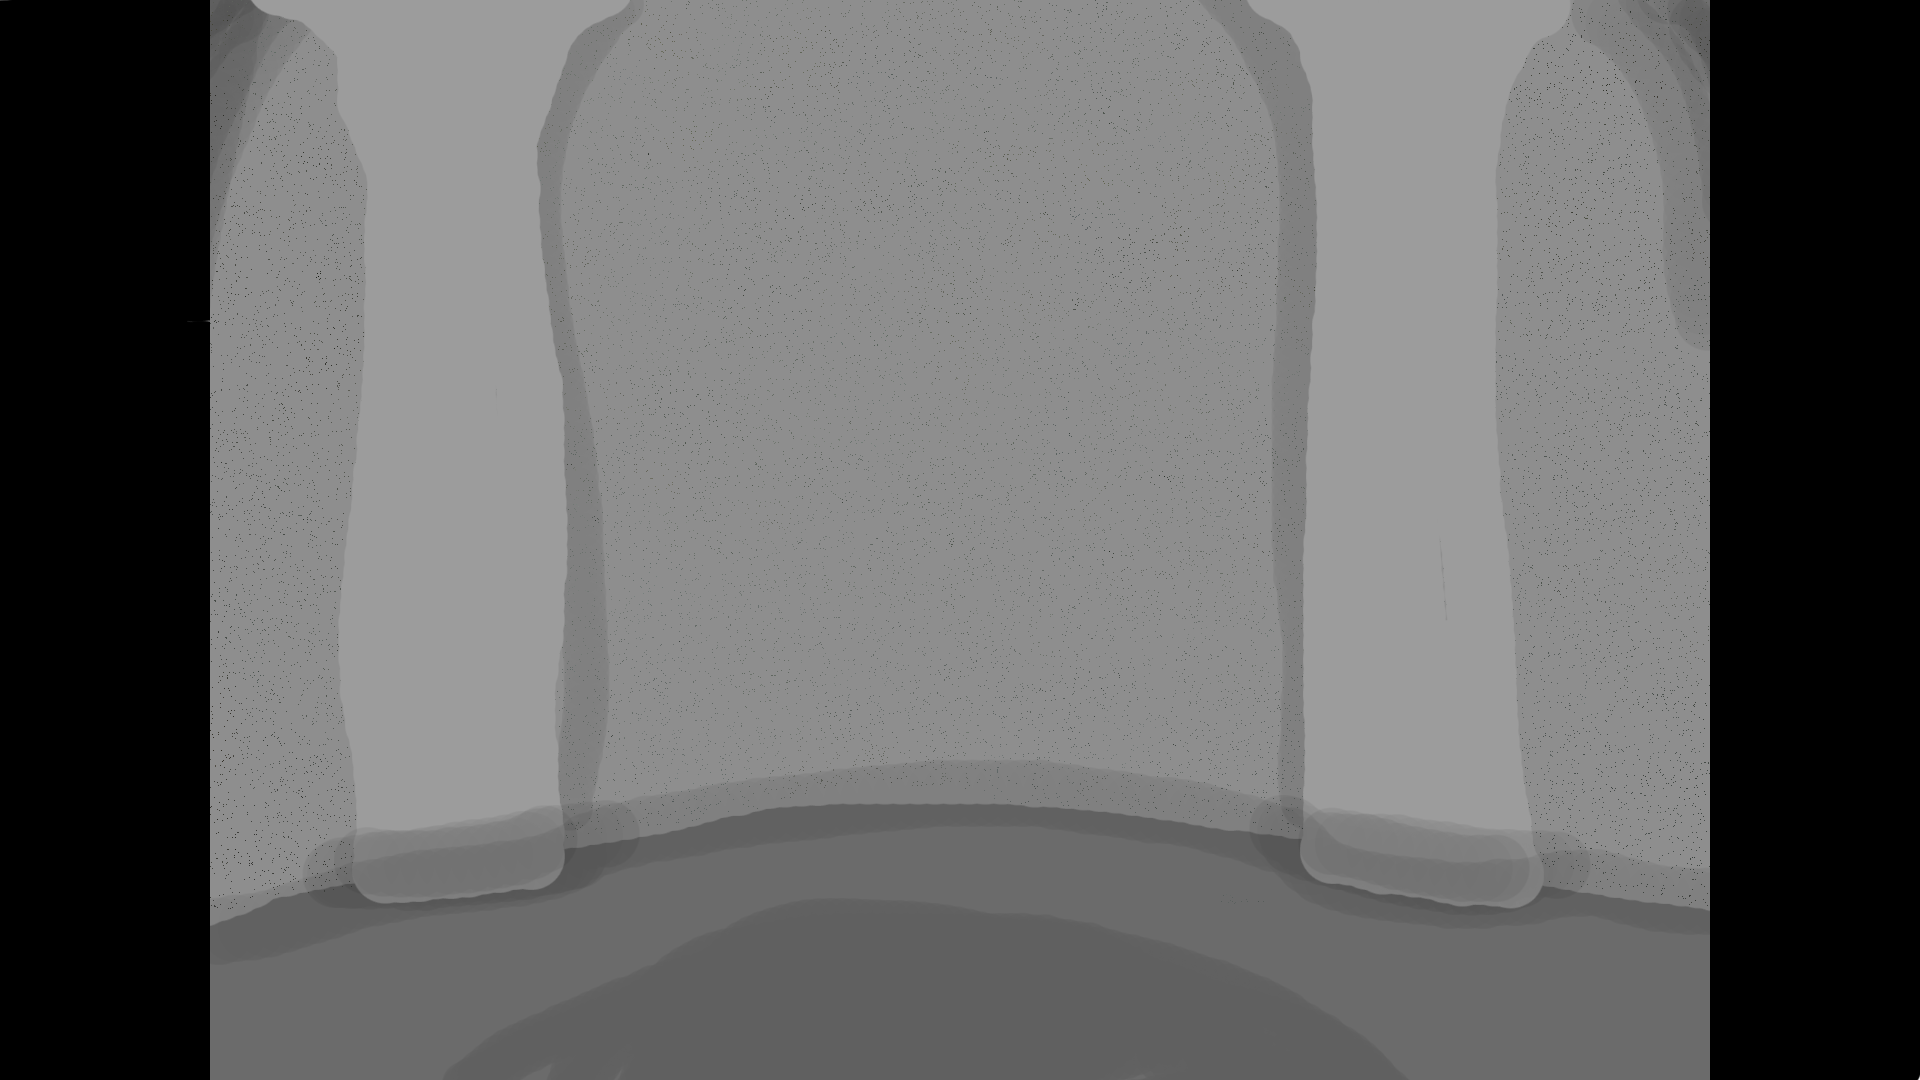
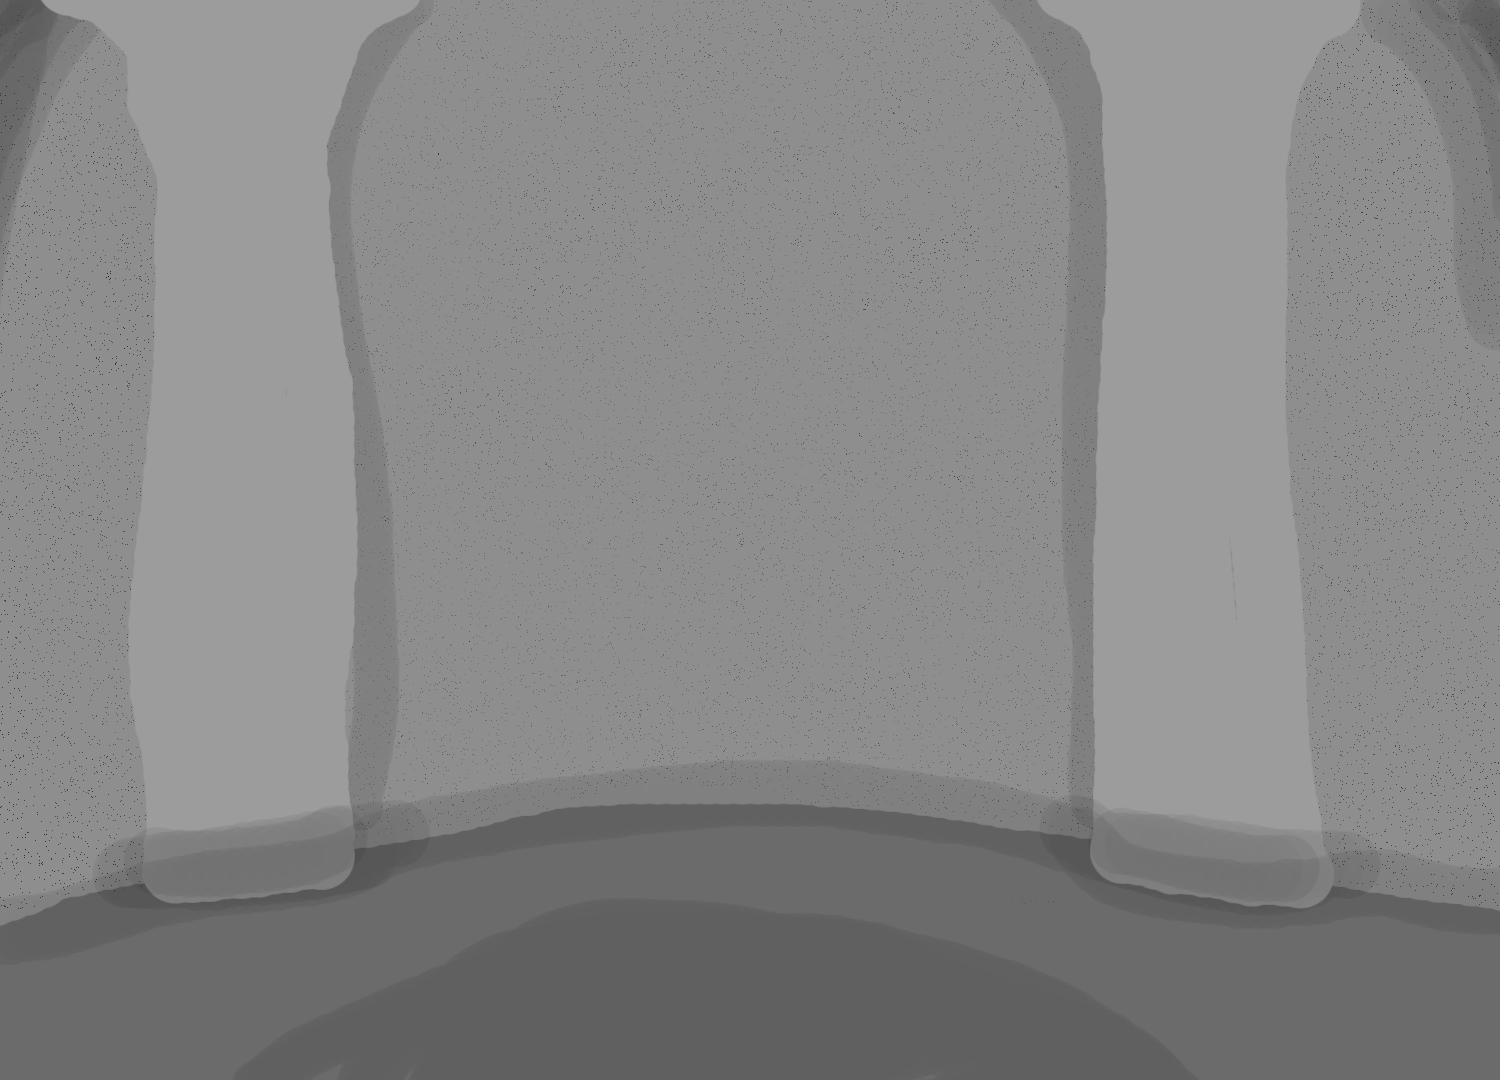
refactor: I've tried making more optimisations, making it more user-friendly in mobile designs. I failed. I don't know how to optimise stuff for mobile. I only know what a 1080p is, not a p1080

diff --git a/script.js b/script.js
@@ -8,18 +8,15 @@ const locations = [
 var currentLocation = "daveLoc"
 
 // dave Texts on start
-// const initText = [
-//     {"t": "didnt ask lmao!", "to": 500},
-//     {"t": "come in my crib tho", "to": 1000},
-//     {"t": "theres not much here", "to": 1000, bg: true},
-//     {"t": "but if you go downstairs", "to": 1000},
-//     {"t": "theres a buletin board with some info", "to": 1000},
-//     {"t": "idk why its there, but its pretty cool ngl", "to": 3000},
-//     {"t": "wait you think i have more to say?", "to": 2800},
-//     {"t": "you can click on me to talk if you want", "to": 1, click: true}
-// ]
 const initText = [
-    {"t": "dev!", "to": 1, click: true, bg: true}
+    {"t": "didnt ask lmao!", "to": 500},
+    {"t": "come in my crib tho", "to": 1000},
+    {"t": "theres not much here", "to": 1000, bg: true},
+    {"t": "but if you go downstairs", "to": 1000},
+    {"t": "theres a buletin board with some info", "to": 1000},
+    {"t": "idk why its there, but its pretty cool ngl", "to": 3000},
+    {"t": "wait you think i have more to say?", "to": 2800},
+    {"t": "you can click on me to talk if you want", "to": 1, click: true}
 ]
 
 // allow clicking dave
@@ -70,16 +67,19 @@ function daveTextAnimation(t, speed) {
 // handles changing locations when buttons are pressed
 function changeLocation(to) {
     if (!locations.some(e => e.name === to)) return
+    var loc = locations.find(e => e.name === to)
+
+    document.getElementById(currentLocation).style.visibility = "hidden"
+
+    document.body.style.backgroundImage = `url('${loc.bg}')`
 
     currentLocation = to
-    document.body.style.backgroundImage = `url('${locations.find(e => e.name === to).bg}')`
+    document.getElementById(currentLocation).style.visibility = "visible"
 }
 
 // On Load
 // the... uhh.. 🤔 (i forgor) uhm.. thing!!
 window.addEventListener('DOMContentLoaded', () => {
-    daveLocation.style.backgroundColor = "transparent" // TEMP!
-
     var text = "Ask me anything..."
     var textSpeed = 1 // 120
 
@@ -113,7 +113,10 @@ daveTextBox.addEventListener("keydown", function(event) {
             setTimeout(() => {
                 daveTextAnimation(e.t, textSpeed)
 
-                if (e.bg) { daveLocation.style.backgroundColor = "transparent" }
+                if (e.bg) { 
+                    daveLocation.style.backgroundColor = "transparent"
+                    document.getElementById("btnDownstairs").style.removeProperty("visibility")
+                }
                 if (e.click) { 
                     allowClickingDave = true 
                     daveImage.style.cursor = "pointer"
@@ -139,17 +142,17 @@ daveImage.addEventListener("click", function() {
             var text = values[randomIndex]
 
             if (daveImage.classList.contains("hasHat") || daveImage.classList.contains("hasOnlyHat")) {
-                daveImage.src = "/assets/dave.png"
+                daveImage.src = "/assets/dave/dave.png"
                 daveImage.classList.remove("hasHat", "hasOnlyHat")
             }
 
             // custom tags handling custom situations
             if (text.startsWith("<hat>")) {
-                daveImage.src = "/assets/davenohat.png"
+                daveImage.src = "/assets/dave/davenohat.png"
                 text = text.replace("<hat>", "").trim()
                 daveImage.classList.add("hasHat")
             } else if (text.startsWith("<onlyhat>")) {
-                daveImage.src = "/assets/daveonlyhat.png"
+                daveImage.src = "/assets/dave/daveonlyhat.png"
                 text = text.replace("<onlyhat>", "").trim()
                 daveImage.classList.add("hasOnlyHat")
             }
@@ -163,5 +166,13 @@ daveImage.addEventListener("click", function() {
     }
 })
 
+// On Page Resize
+// handle page resizing, for mobile support & random screen handling
+
+
+
 // On Button to Downstairs Click
 btnDownstairs.addEventListener("click", () => changeLocation("basementLoc"))
+btnUpstairs.addEventListener("click", () => changeLocation("daveLoc"))
+btnToCrystal.addEventListener("click", () => changeLocation("crystalLoc"))
+btnFromCrystal.addEventListener("click", () => changeLocation("basementLoc"))

diff --git a/index.html b/index.html
@@ -5,11 +5,17 @@
     <meta name="viewport" content="width=device-width, initial-scale=1.0">
     <title>dave the magical wizard</title>
 
-    <!-- CSS + Prefetch Images -->
-    <link rel="preload" href="/assets/locations/davenohat.png" as="image">
+    <!-- CSS + Preload Images -->
+    <link rel="preload" href="/assets/dave/dave.png" as="image">
+    <link rel="preload" href="/assets/dave/davenohat.png" as="image">
+    <link rel="preload" href="/assets/dave/daveonlyhat.png" as="image">
+
     <link rel="preload" href="/assets/locations/1_main.png" as="image">
     <link rel="preload" href="/assets/locations/2_basement.png" as="image">
     <link rel="preload" href="/assets/locations/3_crystal.png" as="image">
+
+    <link rel="preload" href="/assets/other/up.png" as="image">
+    <link rel="preload" href="/assets/other/down.png" as="image">
     <link rel="stylesheet" href="/style.css">
 
     <!-- Roboto Mono Font -->
@@ -18,22 +24,24 @@
     <link href="https://fonts.googleapis.com/css2?family=Roboto+Mono:ital,wght@0,100..700;1,100..700&display=swap" rel="stylesheet">
 </head>
 <body>
-    <!-- Question asking + main area -->
-    <div class="absolute unselectable" id="daveLoc">
+    <!-- Main Area -->
+    <div class="absolute unselectable location" id="daveLoc">
         <p id="daveText"></p>
         <img id="daveCharacter" src="/assets/dave/dave.png" alt="Dave the Magical Wizard">
         <input id="daveTextBox" type="text" required placeholder="Type your question here...">
 
-        <div class="absolute" id="btnDownstairs"></div>
+        <div class="absolute" id="btnDownstairs" style="visibility: hidden;"></div>
     </div>
 
     <!-- Basement area (yes, i was lazy with the chains) -->
-    <div class="absolute" id="basementLoc">
+    <div class="absolute unselectable location" id="basementLoc" style="visibility: hidden;">
+        <div class="absolute" id="btnUpstairs"></div>
 
+        <!-- <div class="absolute" id="btnCrystal"></div> -->
     </div>
 
-    <!-- Basement -->
-    <div class="absolute" id="crystalLoc">
+    <!-- Crystal area (if you saw this via html, then you got spoiled) -->
+    <div class="absolute unselectable location" id="crystalLoc" style="visibility: hidden;">
 
     </div>
 

diff --git a/style.css b/style.css
@@ -4,13 +4,14 @@
 }
 
 body {
+    height: 100vh;
+    overflow: hidden;
+
     background-image: url("/assets/locations/1_main.png");
-    background-color: black;
-    background-size: cover;
+    background-size: contain;
     background-position: center;
     background-repeat: no-repeat;
-    width: 100vw;
-    height: 100vh;
+    background-color: black;
 }
 .relative { position: relative; }
 .absolute { position: absolute; }
@@ -20,9 +21,13 @@ body {
     -moz-user-select: none;
     -ms-user-select: none;
 }
+.hidden { 
+    visibility: hidden;
+    opacity: 0;
+}
 
 /* Locations (Layers) */
-#daveLoc {
+.location {
     width: 100vw;
     height: 100vh;
 
@@ -32,10 +37,12 @@ body {
     justify-content: center;
 
     color: black;
-    background-color: black;
+}
 
+#daveLoc {
     opacity: 1;
     transition: opacity 2s;
+    background-color: black;
 }
 
 /* Assets */
@@ -43,15 +50,25 @@ body {
     text-shadow: 2px 2px black;
     font-family: "Roboto Mono", monospace;
     font-size: 2rem;
-    padding-bottom: 1rem;
-    height: 60px;
 
+    text-align: center;
+
+    height: auto;
+    max-width: 90vw;
+    min-height: 60px;
+
+    padding-bottom: 1rem;
     color: white;
 }
 
 #daveCharacter {
     filter: drop-shadow(1px 1px 15px rgba(151, 145, 145, 0.5));
     filter: drop-shadow(1px 1px 15px rgba(0, 0, 0, 0.5));
+
+    max-width: 40vw;
+    max-height: 40vh;
+    width: auto;
+    height: auto;
 
     opacity: 0;
     animation: fadeIn 4s forwards;
@@ -83,7 +100,18 @@ body {
     background-position: center;
     background-repeat: no-repeat;
 
-    bottom: 2rem; 
+    bottom: 5vh; 
+    padding: 3rem 2rem;
+    cursor: pointer;
+}
+
+#btnUpstairs {
+    background-image: url("/assets/other/up.png");
+    background-size: cover;
+    background-position: center;
+    background-repeat: no-repeat;
+    
+    top: 5vh;
     padding: 3rem 2rem;
     cursor: pointer;
 }
